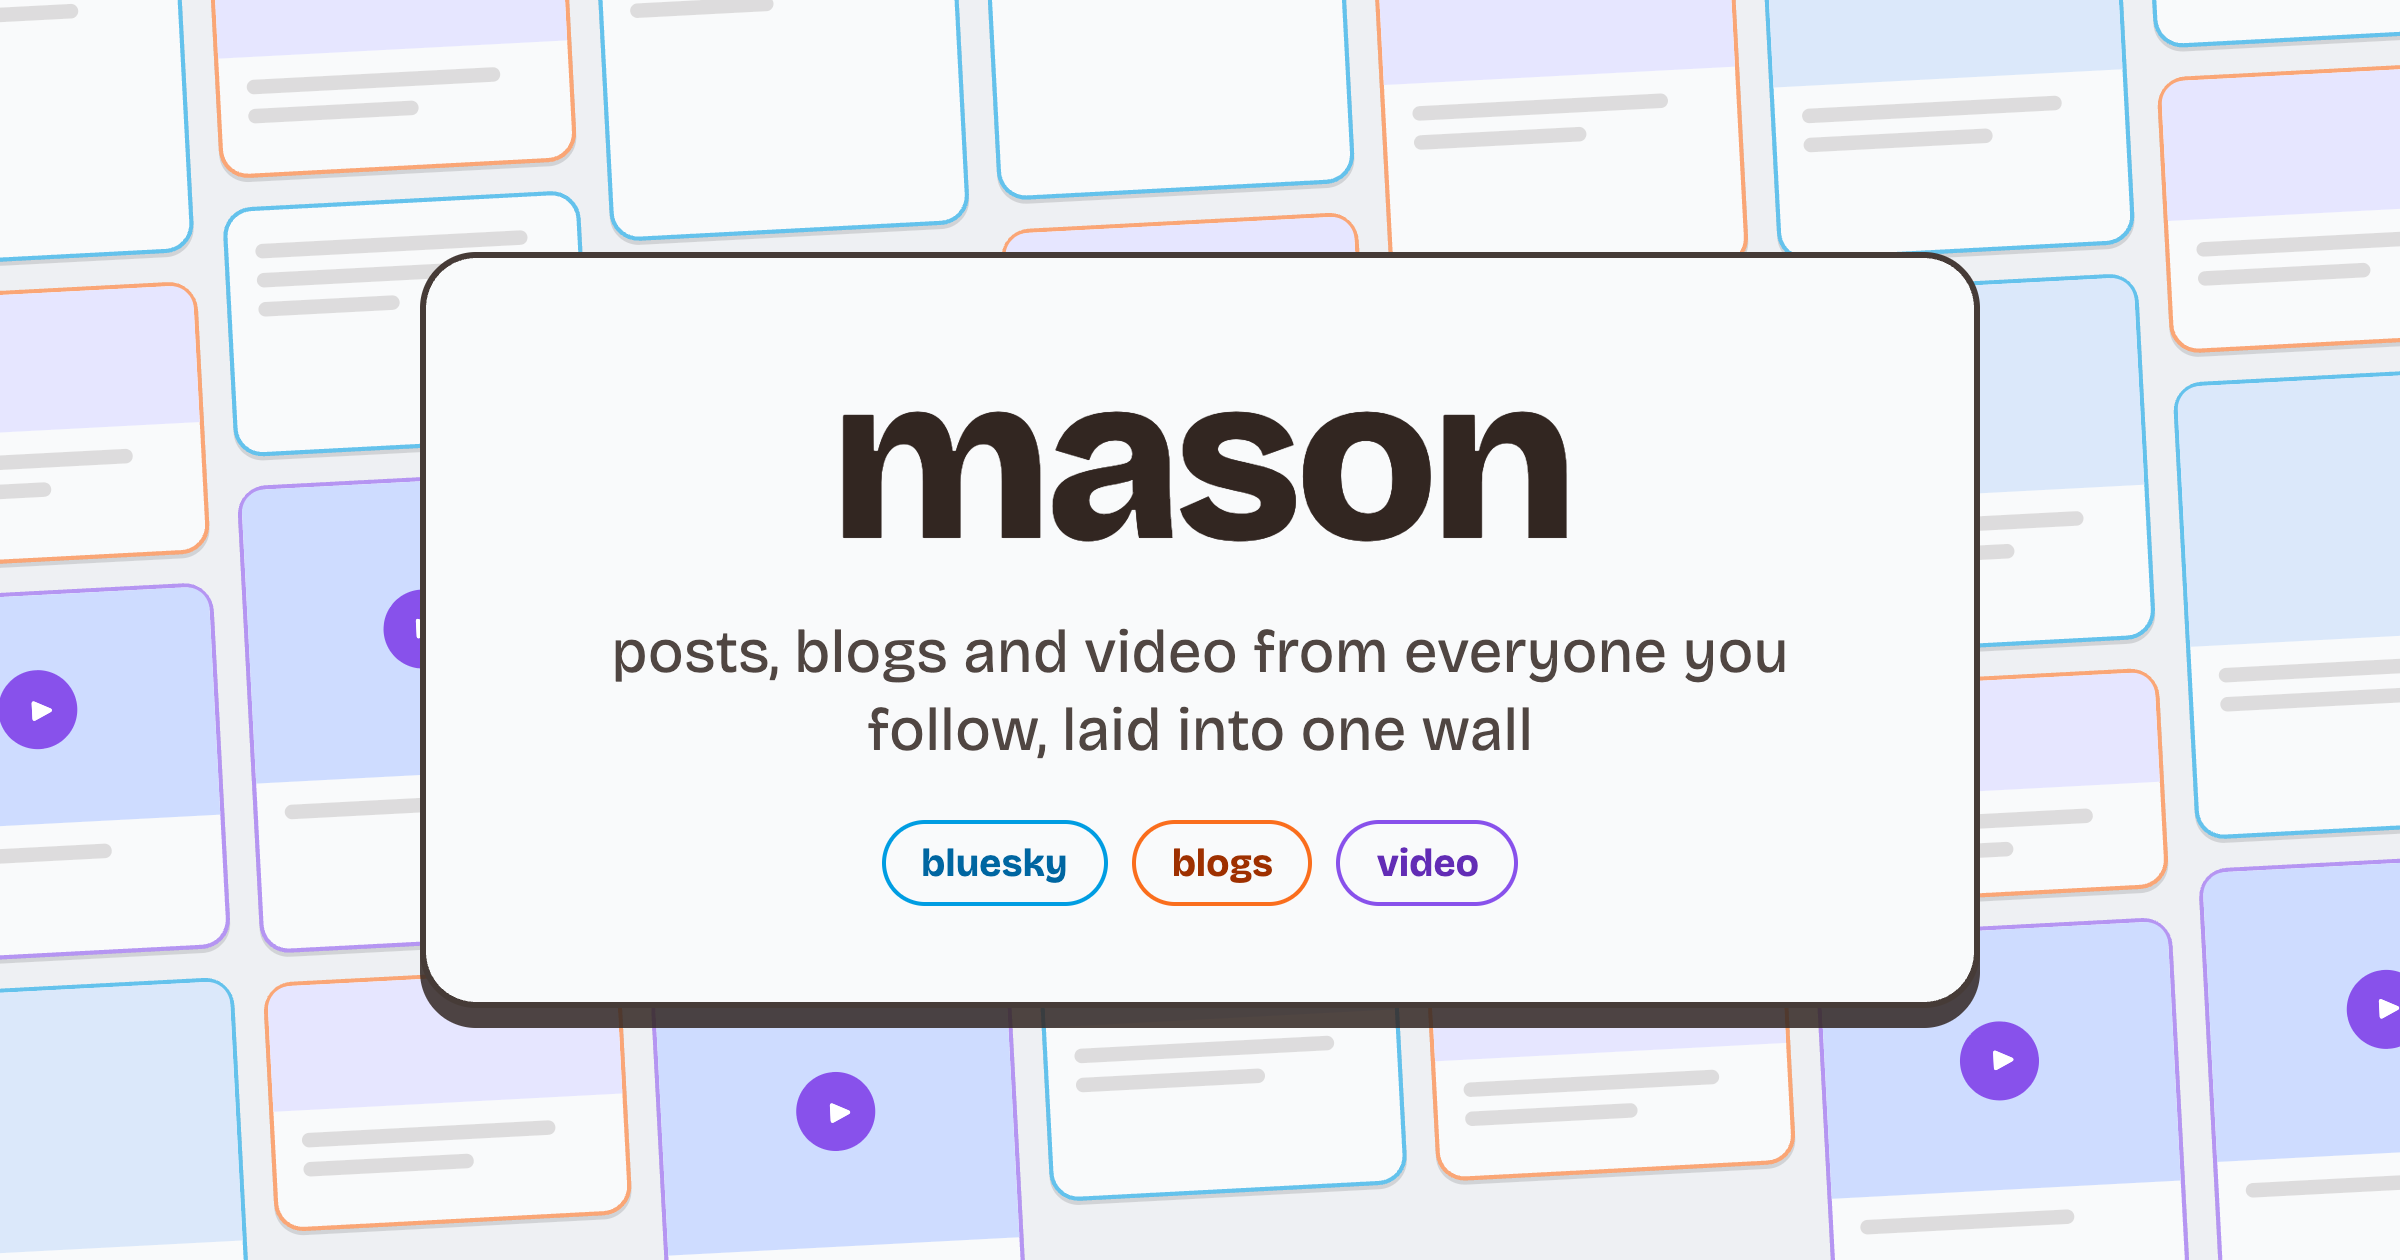
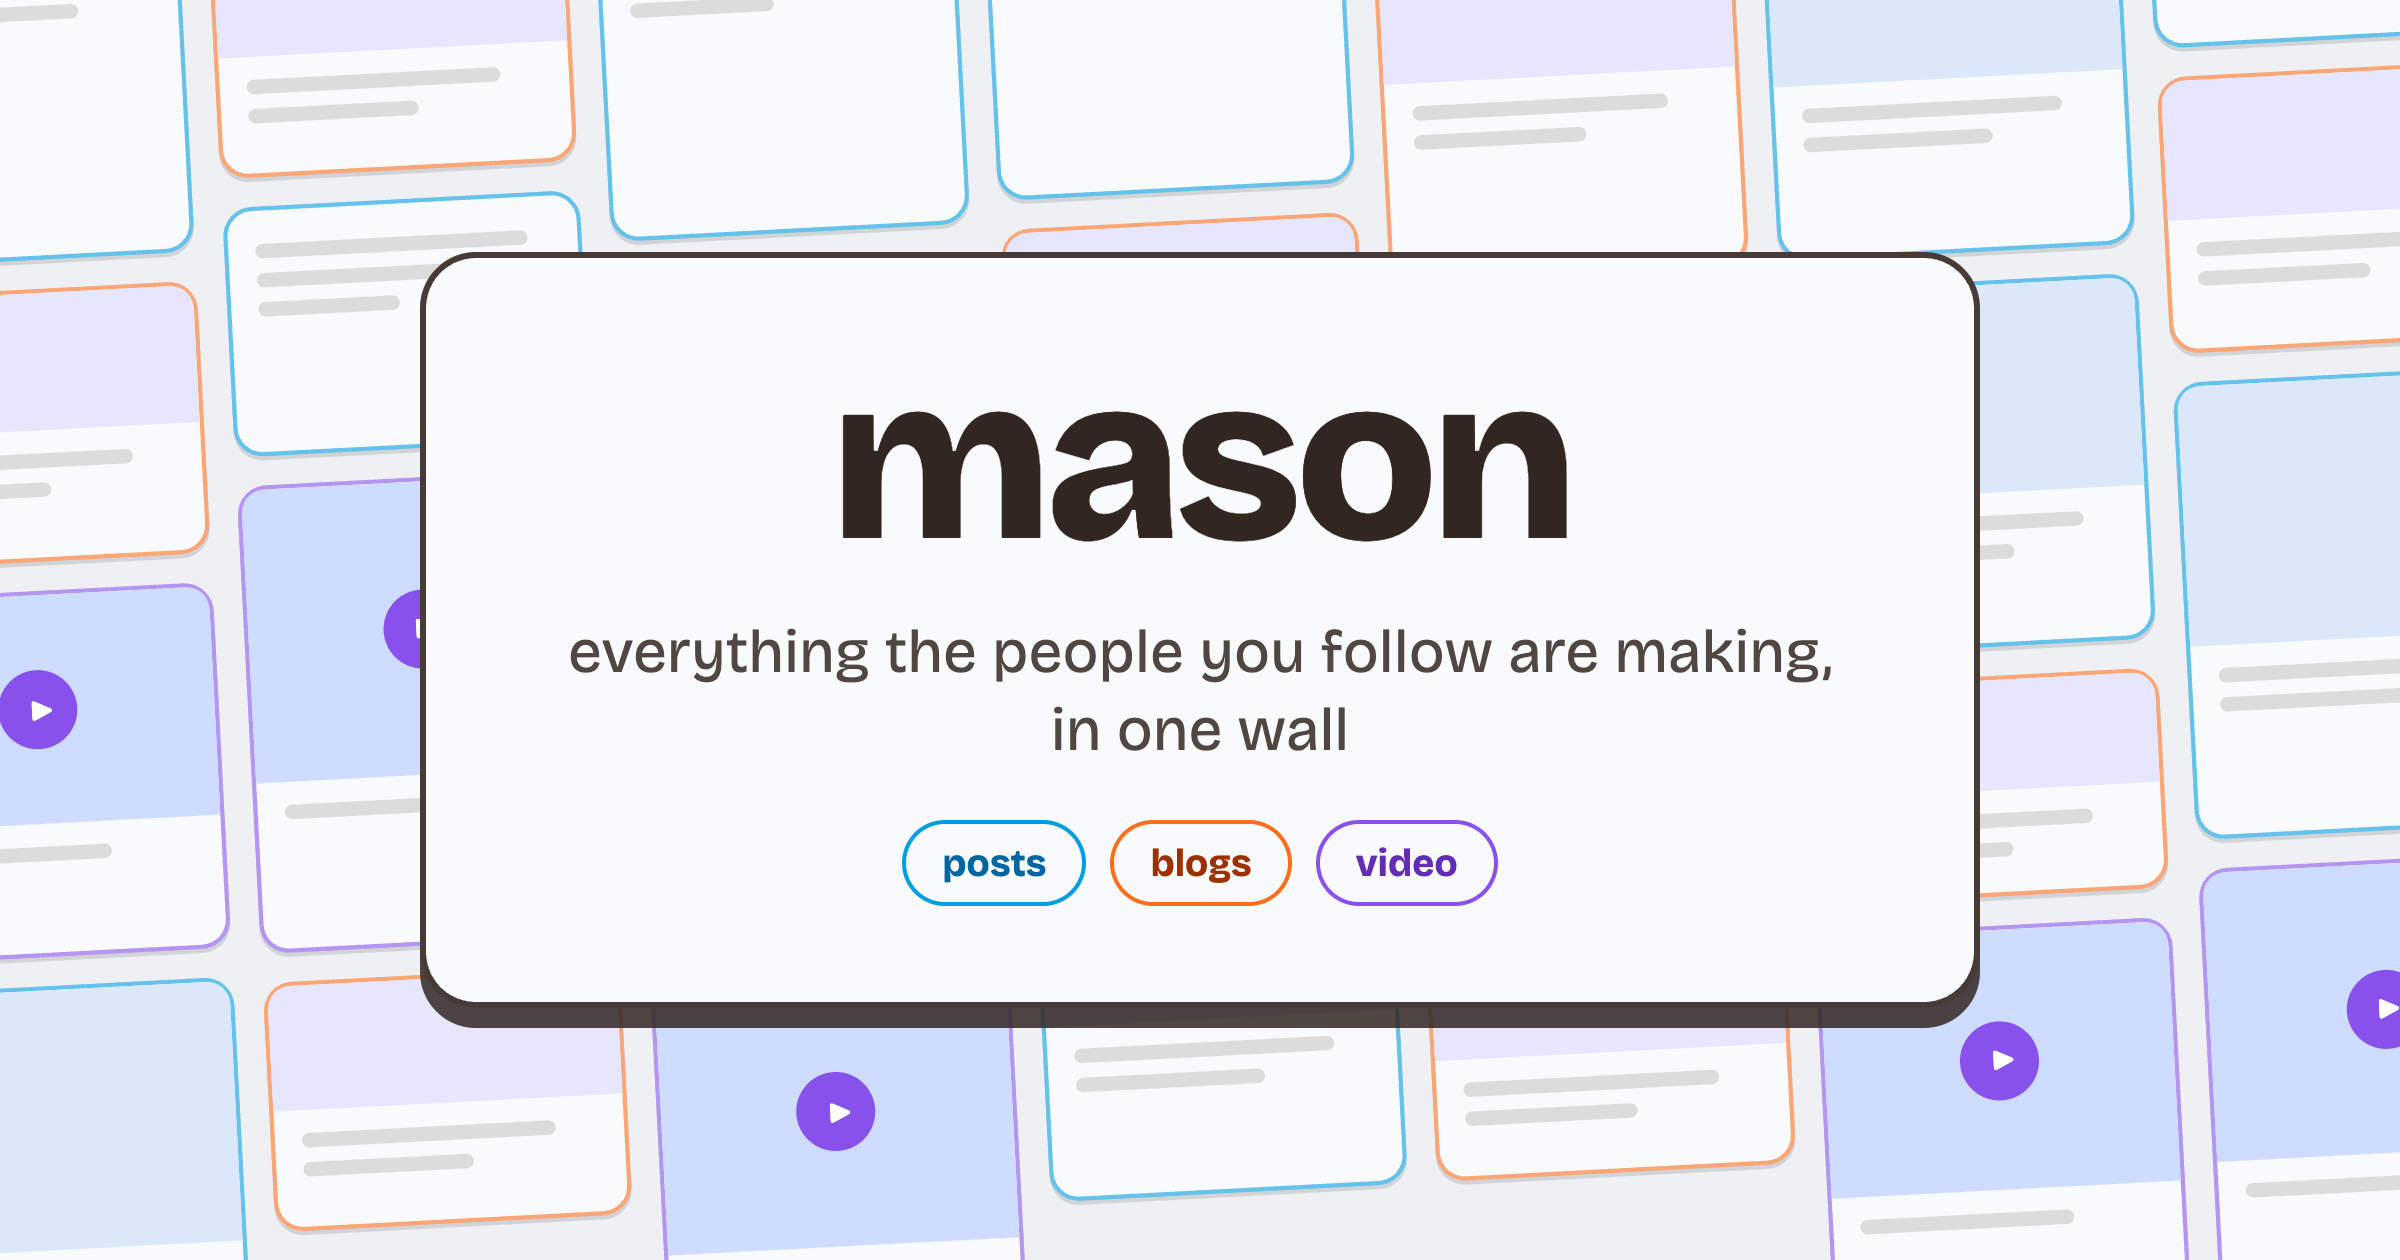
clarify: tighten the link preview and card copy
A preview is read by a stranger in someone else's feed, so brand-internal
phrasing tells them nothing. 'one wall, every brick' is voice, not meaning.

- title says what mason does: 'mason · everyone you follow, in one wall'
- description leads with the thing itself: 'A masonry wall of everything the
  people you follow are making: Bluesky posts, blogs and video. No login, and
  the feed is built in your own browser.'
- the card stopped saying its own nouns twice: the tagline now says what mason
  does, and the three chips are the legend for the brick colours instead of
  repeating the tagline's list
- alt text describes the information, not the decoration: which colour means
  which kind of brick

Changed region(s): [[0.2188, 0.4952, 0.7812, 0.619], [0.375, 0.65, 0.625, 0.7119]]

diff --git a/web/src/app.html b/web/src/app.html
@@ -8,10 +8,10 @@
     <!-- Crawlers do not run JavaScript, and they never boot the service worker
          that IS mason's feed engine. Whatever a link preview shows has to be
          here, in the shell, or it does not exist. -->
-    <title>mason · one wall, every brick</title>
+    <title>mason · everyone you follow, in one wall</title>
     <meta
       name="description"
-      content="Posts, blogs and video from everyone you follow, laid into one wall. An atproto discovery app: no login, and the feed engine runs in your own browser."
+      content="A masonry wall of everything the people you follow are making: Bluesky posts, blogs and video. No login, and the feed is built in your own browser."
     />
     <link rel="canonical" href="https://mason.iamstan.dev/" />
     <meta name="theme-color" content="#f1f1f3" media="(prefers-color-scheme: light)" />
@@ -20,10 +20,10 @@
     <meta property="og:type" content="website" />
     <meta property="og:site_name" content="mason" />
     <meta property="og:url" content="https://mason.iamstan.dev/" />
-    <meta property="og:title" content="mason · one wall, every brick" />
+    <meta property="og:title" content="mason · everyone you follow, in one wall" />
     <meta
       property="og:description"
-      content="Posts, blogs and video from everyone you follow, laid into one wall. An atproto discovery app: no login, and the feed engine runs in your own browser."
+      content="A masonry wall of everything the people you follow are making: Bluesky posts, blogs and video. No login, and the feed is built in your own browser."
     />
     <meta property="og:image" content="https://mason.iamstan.dev/og.png" />
     <meta property="og:image:type" content="image/png" />
@@ -31,14 +31,14 @@
     <meta property="og:image:height" content="630" />
     <meta
       property="og:image:alt"
-      content="A masonry wall of bricks in sky, tangerine and violet, with the mason wordmark laid over it."
+      content="The mason wordmark laid on a masonry wall of colour-coded bricks: sky for Bluesky posts, tangerine for blogs, violet for video."
     />
 
     <meta name="twitter:card" content="summary_large_image" />
-    <meta name="twitter:title" content="mason · one wall, every brick" />
+    <meta name="twitter:title" content="mason · everyone you follow, in one wall" />
     <meta
       name="twitter:description"
-      content="Posts, blogs and video from everyone you follow, laid into one wall."
+      content="Bluesky posts, blogs and video from everyone you follow, in one wall. No login."
     />
     <meta name="twitter:image" content="https://mason.iamstan.dev/og.png" />
 

diff --git a/web/scripts/og-template.html b/web/scripts/og-template.html
@@ -202,9 +202,9 @@
 
 		<div class="plate">
 			<h1>mason</h1>
-			<p id="tagline">posts, blogs and video from everyone you follow, laid into one wall</p>
+			<p id="tagline">everything the people you follow are making, in one wall</p>
 			<div class="kinds">
-				<span class="kind k-post">bluesky</span>
+				<span class="kind k-post">posts</span>
 				<span class="kind k-blog">blogs</span>
 				<span class="kind k-video">video</span>
 			</div>